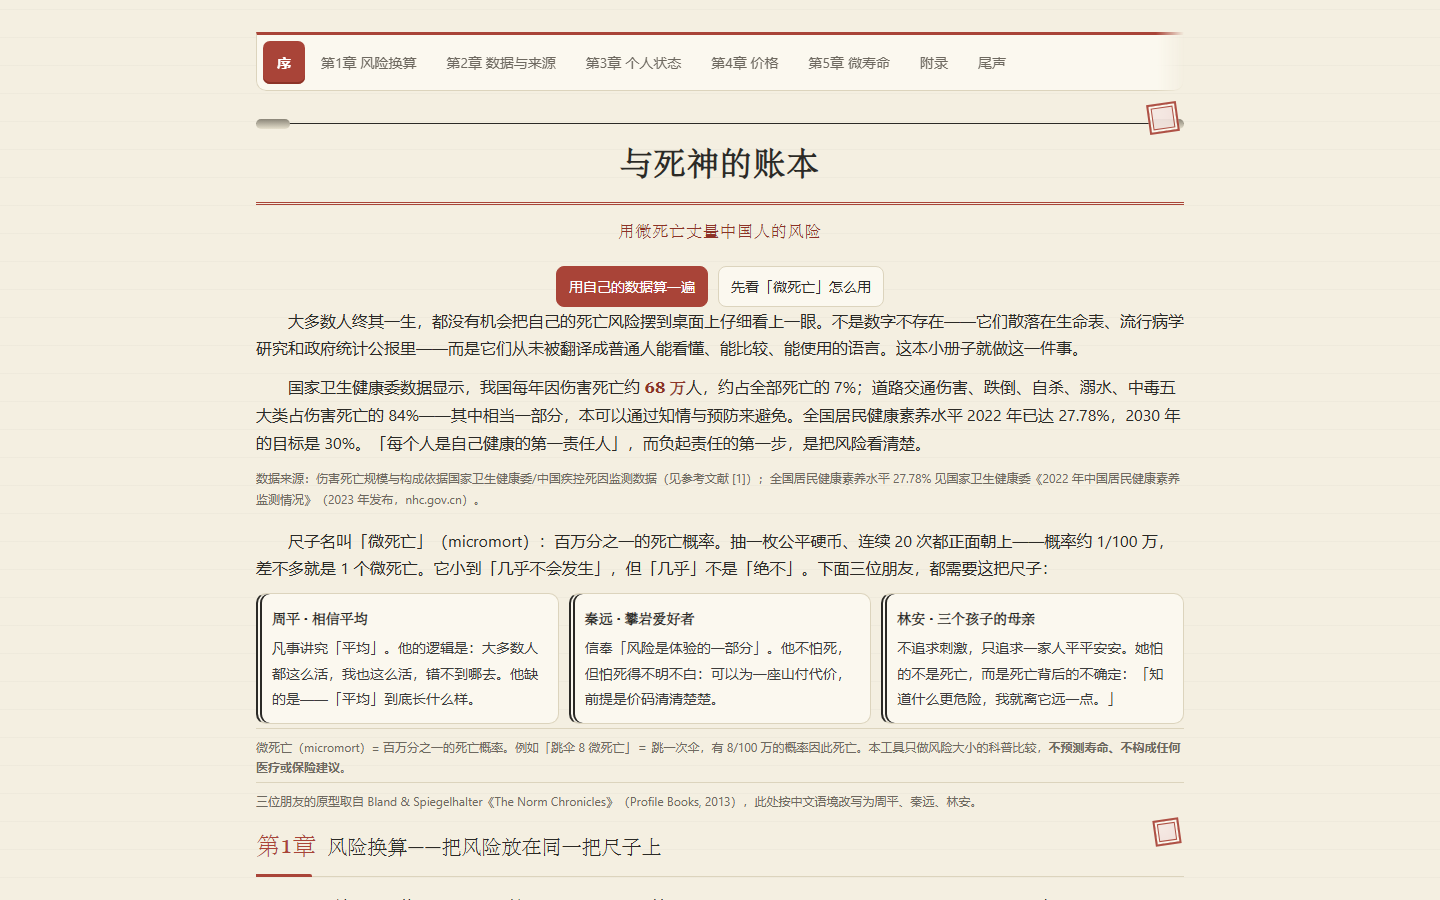
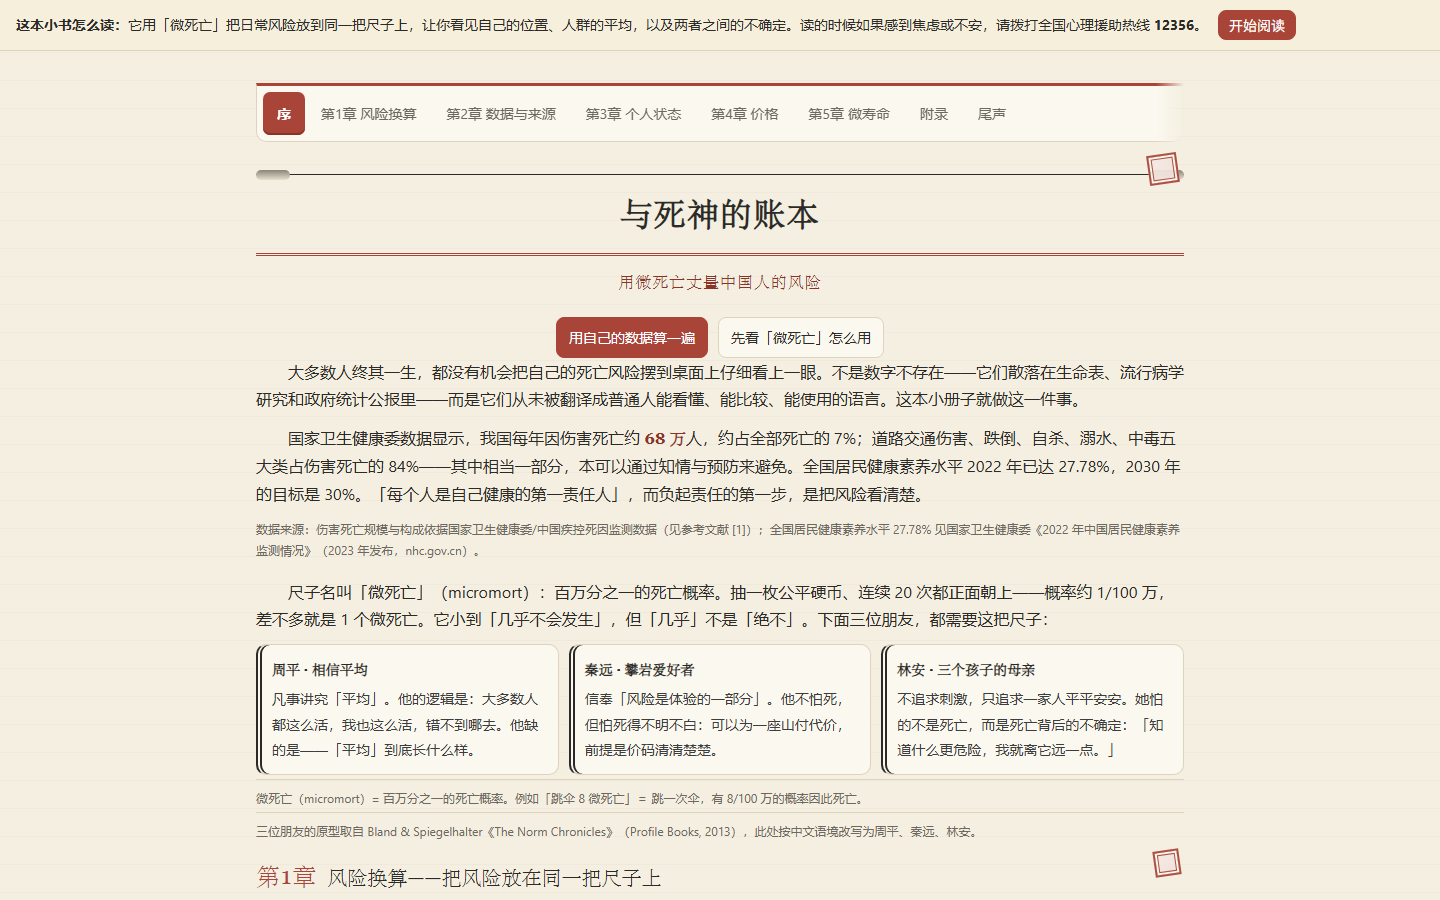
publish: v1.0.1 产品介绍与版本记录

Changed region(s): [[0.0, 0.0, 0.9062, 0.9956], [0.7812, 0.9022, 0.8438, 0.9644], [0.1875, 0.1867, 0.2188, 0.2178]]

diff --git a/index.html b/index.html
@@ -332,11 +332,11 @@
 <body>
 <a href="#docTitle" class="skip-link">跳到正文</a>
 <div id="disclaimer">
-  <span><b>请先了解：</b>本工具只做「风险大小」的科普比较，<b>不预测寿命、不构成任何医疗或保险建议</b>，结果不能用于个体医疗决策或保险定价。文中的寿命收支等所有时间维度数字，都是「当前状态」相对「同龄同性别平均」的差值，不是对个人寿命的预言。如因此感到焦虑或不安，请拨打全国心理援助热线 <b>12356</b>。继续使用即表示你已理解。</span>
-  <button type="button" id="disclaimerOk" class="btn btn-sm btn-primary">我知道了</button>
+  <span><b>这本小书怎么读：</b>它用「微死亡」把日常风险放到同一把尺子上，让你看见自己的位置、人群的平均，以及两者之间的不确定。读的时候如果感到焦虑或不安，请拨打全国心理援助热线 <b>12356</b>。</span>
+  <button type="button" id="disclaimerOk" class="btn btn-sm btn-primary">开始阅读</button>
 </div>
 <main class="wrap" id="main">
-  <p class="sr-only">页面顶部有免责声明，含心理援助热线 12356；如需查看请按 Shift+Tab 回到页面开头的「跳到正文」链接，再按 Shift+Tab 进入免责声明。</p>
+  <p class="sr-only">页面顶部有阅读提示，含心理援助热线 12356；如需查看请按 Shift+Tab 回到页面开头的「跳到正文」链接，再按 Shift+Tab 进入阅读提示。</p>
   <nav class="chapters" id="chapterNav" aria-label="章节目录">
     <a href="#prologue" data-ch="prologue" class="active">序</a>
     <a href="#ch1" data-ch="ch1">第1章 风险换算</a>
@@ -364,7 +364,7 @@
       <div class="p"><b>秦远 · 攀岩爱好者</b><span>信奉「风险是体验的一部分」。他不怕死，但怕死得不明不白：可以为一座山付代价，前提是价码清清楚楚。</span></div>
       <div class="p"><b>林安 · 三个孩子的母亲</b><span>不追求刺激，只追求一家人平平安安。她怕的不是死亡，而是死亡背后的不确定：「知道什么更危险，我就离它远一点。」</span></div>
     </div>
-    <p class="meta">微死亡（micromort）= 百万分之一的死亡概率。例如「跳伞 8 微死亡」＝ 跳一次伞，有 8/100 万的概率因此死亡。本工具只做风险大小的科普比较，<b>不预测寿命、不构成任何医疗或保险建议</b>。</p>
+    <p class="meta">微死亡（micromort）= 百万分之一的死亡概率。例如「跳伞 8 微死亡」＝ 跳一次伞，有 8/100 万的概率因此死亡。</p>
     <p class="meta">三位朋友的原型取自 Bland &amp; Spiegelhalter《The Norm Chronicles》（Profile Books, 2013），此处按中文语境改写为周平、秦远、林安。</p>
   </header>
 
@@ -524,7 +524,7 @@
   <section class="chapter" id="ch3">
     <div class="ch-head"><span class="no">第3章</span><h2>个人状态——你的账本</h2></div>
     <div class="ch-lead">
-      <p>这一章是整个工具的核心：填入年龄、性别与九项健康指标，它会画出「和你数据相同的一群人」的平均生存曲线。这是一条「平均人」的命运曲线（确定性生命表 + 1000 次系数抽样的带），不是你的命运——个体可能落在蓝带内任何位置，也可能落在带外。它不预测寿命。</p>
+      <p>这一章是整个工具的核心：填入年龄、性别与九项健康指标，它会画出「和你数据相同的一群人」的平均生存曲线——确定性生命表打底，1000 次系数抽样给出蓝带。你会看到自己相对同龄人的位置，也会看到这条曲线留有多少余地。</p>
       <p>蓝带是<b>系数不确定带</b>：来自对各状态系数「估计不确定」的 1000 次蒙特卡洛抽样（不含基线口径本身的不确定——换一套人群生命表，整条曲线会整体平移，见第 2 章的来源说明），数字卡取其中位数，与曲线同源。把指针放到曲线上，可查看每个时间点的详细数值（手机上用手指按住拖动，松手后数值保留约 2 秒）。本章末尾的「个人风险报告」可打印（浏览器打印对话框里另存为 PDF）或复制文本摘要——报告只含你输入的数值与计算结果，不含姓名等个人识别信息。</p>
     </div>
     <div class="card">
@@ -629,12 +629,12 @@
         <select id="cmpInst" class="select-compact"><option value="">不叠加</option></select>
         <span id="cmpOut" class="text-mut"></span>
       </div>
-      <div class="hint mt-6 mb-0">这条曲线描述的是「和你数据相同的一群人」的平均命运，不是你的命运——个体可能落在蓝带内任何位置，也可能落在带外。它不预测你的寿命。</div>
+      <div class="hint mt-6 mb-0">曲线给出同群体平均，蓝带标出系数估计的不确定；你的位置可能落在带内，也可能落在带外。看清这段距离，比记住一个点更有用。</div>
       <div id="warnings"></div>
       <div id="riskProfile"></div>
       <div class="card" id="reportCard">
         <h2>个人风险报告</h2>
-        <p class="src mt-0">把当前结果导出为一份自洽的报告：打印版按六部分组织——报告头、输入档案（13 项）、核心结果、风险构成、事件叠加清单、方法与局限（浏览器打印对话框可另存为 PDF）；没填的项目会显示「未填」、没加事件时事件清单只有一行提示，所以整份长度随输入而变。文本摘要是一段可一键复制的纯文本，不是同一份报告的逐行镜像。报告只含你输入的数值与计算结果，<b>不含姓名等个人识别信息</b>，不构成医疗或保险建议。</p>
+        <p class="src mt-0">把当前结果导出为一份自洽的报告：打印版按六部分组织——报告头、输入档案（13 项）、核心结果、风险构成、事件叠加清单、方法与局限（浏览器打印对话框可另存为 PDF）；没填的项目会显示「未填」、没加事件时事件清单只有一行提示，所以整份长度随输入而变。文本摘要是一段可一键复制的纯文本，不是同一份报告的逐行镜像。报告只含你输入的数值与计算结果，<b>不含姓名等个人识别信息</b>。</p>
         <div class="btn-row">
           <button id="reportPrint" type="button" class="btn btn-primary">打印报告（可另存 PDF）</button>
           <button id="reportCopy" type="button" class="btn">复制文本摘要</button>
@@ -648,7 +648,7 @@
   <section class="chapter" id="ch4">
     <div class="ch-head"><span class="no">第4章</span><h2>价格——风险的另一把尺子</h2></div>
     <div class="ch-lead">
-      <p>把 1 微死亡折算成人民币，是一种很老的经济学方法。先说清楚它不是什么：它不是说「一条命值多少钱」，而是说「社会愿意为减少 1 个微死亡支付多少钱」——一个换算率，只用于比较不同风险的大小。</p>
+      <p>把 1 微死亡折算成人民币，是一种很老的经济学方法：它算的是社会愿意为减少 1 个微死亡支付多少钱。这个换算率让不同风险可以放到同一张价格表上比较。</p>
       <p>中国的统计生命价值研究已由 1 篇系统综述纳入 28 项研究（那艺诺等，2025），其中 24 项有明确调查年份、可做跨期折算，内嵌于本工具。这 24 项的价格从 ¥0.12 到 ¥9.75 不等——差别不在「命有贵贱」，而在方法：<b>市场行为（工资补偿）</b>捕捉真实支付行为、数值偏高；<b>个人意愿（问卷）</b>受假设偏差影响、跨度大。<b>本工具不把它们平均成一个数</b>（不同方法测的不是同一个量，平均会把方法差异伪装成随机误差）。折算风险构成时，每一行按该因素所属领域的代表研究取价（健康类 Hammitt 2016、交通类 Zheng 2017、职业类 GUO 1998、污染类 Cao 2019），所以不同行的价格本来就不一样：职业类 GUO 1998 折至 2025 年约 ¥3.28/微死亡，健康类 Hammitt 2016 约 ¥4.35，交通类 Zheng 2017 约 ¥4.90。</p>
     </div>
     <div class="card">
@@ -728,8 +728,10 @@
       <h3>编校信息</h3>
       <p class="src mt-0">本版由作者完成多轮事实核查与校对，并参考公开数据来源。</p>
       <details>
-        <summary>编校信息（版本 1.0.1 · 作者自校）</summary>
-        <p class="src">版本 1.0.1（正式版）。本版经过作者多轮事实核查与校对，参考公开数据来源，并采纳多轮独立评审意见。修订建议请附证据指出，按「原文—改法—依据」三栏记录。本工具不预测寿命：寿命收支等所有时间维度数字都是「当前状态」相对「同龄同性别平均」的差值，不是对个人寿命的预言。</p>
+        <summary>编校与版本记录（1.0.1）</summary>
+        <p class="src"><b>1.0.1（2026-11-13）</b>：生命表换为 WHO 中国 2019–2023 一般人口口径；加入逐行领域取价、比例风险背景曲线、月模式、档案对照与可打印报告；完成多轮外审与内部盲审修复。</p>
+        <p class="src"><b>1.0.0（2026-11-11）</b>：首个稳定单文件版本，确立七章叙事、微死亡与微寿命两把尺子，以及离线可用的本机账本。</p>
+        <p class="src">修订建议请附证据指出，按「原文—改法—依据」三栏记录；完整版本记录见项目仓库 <code>CHANGELOG.md</code>。</p>
       </details>
       <p class="src">© 2026 Dasein0721 · 本作品采用 CC BY-NC 4.0（署名—非商业性使用）许可：转发、改编并公开发表须保留作者署名，商业用途须事先取得许可，个人学习与研究自由。协议见 https://creativecommons.org/licenses/by-nc/4.0/。</p>
       <h3>求助引导</h3>
@@ -749,7 +751,7 @@
         <li>生命表的单岁值由 5 岁组换算：组内按「风险恒定」摊到每一岁，所以 5–9 岁、10–14 岁等组内各年死亡率相同，是平滑后的近似而非逐年实测（0–4 岁分婴儿期与幼儿期两段；85 岁以上为 Gompertz 拟合外推）。</li>
       </ol>
     </details>
-    <p class="mt-6 mb-0 fs-14">本工具仅供理解风险量级，不构成任何医疗或预测结论。</p>
+    <p class="mt-6 mb-0 fs-14">把风险放回量级里看，是这本小书想留下的东西；体检、诊断与保单，请交给医生和专业人士。</p>
     <p class="src mt-6 mb-0">数据来源与局限：生命表（WHO 全球卫生观察站中国 2019–2023 五年平均，一般人口口径；不采用保险业经验生命表，因承保筛选会让 40–80 岁死亡率偏低约四成）；85 岁以上为 Gompertz 拟合外推（WHO 公开表 85 岁以后只有 5 岁组，取不到单岁值）；9 个状态系数来源在「填写后」的动态提示中逐条给出；综合风险校准参数（k1 / CAP / τ）取值见第2章；微死亡表信度分级与溯源见第1章与第2章；VSL 24 篇折算口径见第4章与第2章。</p>
     <div class="divider-16">
       <b>隐私与本机数据（这条请务必读）</b>
@@ -3514,7 +3516,7 @@ function toggleEventLou(row){
   $("disclaimerOk").addEventListener("click", ()=>{
     bar.style.display="none";
     try{ localStorage.setItem("rb_disclaimer_ok","1"); }catch(e){}
-    // 免责声明是页面第一个可聚焦区域；关闭后焦点不能掉回 body，否则键盘用户要从头 Tab 一遍
+    // 顶部阅读提示是页面第一个可聚焦区域；关闭后焦点不能掉回 body，否则键盘用户要从头 Tab 一遍
     const t = $("docTitle");
     if(t) t.focus({preventScroll:true});
   });
@@ -3557,7 +3559,7 @@ function toggleEventLou(row){
     try{
       for(let i=0;i<localStorage.length;i++){
         const k = localStorage.key(i);
-        // 免责声明确认是一次性本机状态：不随备份迁移，换设备/清空后应重新确认（第七份外审）。
+        // 顶部阅读提示的确认是一次性本机状态：不随备份迁移，换设备/清空后应重新确认（第七份外审）。
         if(!k || k.indexOf("rb_") !== 0 || k === "rb_disclaimer_ok") continue;
         data[k] = localStorage.getItem(k);
       }
@@ -3619,7 +3621,7 @@ function toggleEventLou(row){
         }catch(e){ inpOK = false; }
         if(!inpOK){ hint("备份里的个人信息格式不对，已停止导入（本机原记录未动）。"); imp.value = ""; return; }
       }
-      // 同导出：免责声明确认不随备份迁移，导入后仍由本机状态决定是否显示。
+      // 同导出：顶部阅读提示的确认不随备份迁移，导入后仍由本机状态决定是否显示。
       const keys = Object.keys(obj.data).filter(k => k.indexOf("rb_") === 0 && k !== "rb_disclaimer_ok" && typeof obj.data[k] === "string");
       if(!keys.length){ hint("备份里没有可导入的记录。"); imp.value = ""; return; }
       if(!window.confirm("导入会覆盖这台设备上现有的记录（备份含 " + keys.length + " 项），继续？")){ imp.value = ""; return; }

diff --git a/README.md b/README.md
@@ -6,7 +6,7 @@
 
 <sub>截图为 2026-11-13 构建（v1.0.1），1440×900 首屏；由本机无头 Edge 生成，非手工截图。</sub>
 
-> ⚠ **免责声明**：本工具只做「风险大小」的科普比较，不预测寿命，不构成任何医疗或保险建议，结果不能用于个体医疗决策或保险定价。
+> 读法：先看「微死亡」怎么用，再填自己的数据；每个数字都能在页内找到来源与口径。
 
 ---
 
@@ -17,7 +17,7 @@
 - **微死亡（micromort）**：百万分之一的死亡概率。跳一次伞约 8 微死亡；以 40 岁男性为例，每天吸 20 支烟约相当于每年多出 1,100 微死亡。
 - **微寿命（microlife）**：半小时的预期寿命。每天吸烟 20 支约损失 5 小时/天，肥胖约 1.5 小时/天。
 
-输入你的年龄、性别与生活习惯，页面就能估算你的个人死亡风险，并给出「和你数据相同的一群人」的平均曲线（确定性生命表 + 1,000 次系数抽样的带）作参照。
+输入你的年龄、性别与生活习惯，页面会把你的风险放回同龄人群里，画出「和你数据相同的一群人」的平均曲线（确定性生命表 + 1,000 次系数抽样的带），让你看见自己的位置和这段距离。
 
 ## 功能亮点
 
@@ -47,21 +47,21 @@ node _test_render.js   # 30/30
 ## 数据与科学
 
 - 基础死亡风险来自 **WHO GHO 中国一般人口生命表 2019–2023 五年平均**（5 岁组 lx → 单岁 qx；85 岁以上按 Gompertz 拟合外推）。
-  - 不使用保险业经验生命表（CL4）：被保险人有承保筛选，40 岁男性死亡率仅为一般人口的一半，会让「普通人」的存活率系统性偏高。
-  - 中国没有 2025 年的一般人口生命表：普查年才发完整表，其余年份只发人均预期寿命；WHO 2023 是标准估计的最新一年。
+  - 采用一般人口口径：保险业经验生命表经过承保筛选，40 岁男性死亡率约为一般人口的一半，会让「普通人」的存活率系统性偏高。
+  - 最新可用的是 WHO 2023 标准估计：完整生命表只在普查年发布，其余年份公布人均预期寿命。
 - 9 个状态系数锚定中国成人调查人群平均；连乘高估以 k1 / CAP / τ 校准。
 - 蓝带是**系数不确定带**（1,000 次蒙特卡洛只抽系数），不含基线口径本身的不确定。
-- 生命价值（VSL）由 1 篇系统综述纳入 28 项研究、24 项内嵌；**不合成中位数**——不同方法测的不是同一个量。风险构成的每一行按该因素所属领域取代表研究（健康 Hammitt 2016 ¥4.35、交通 Zheng 2017 ¥4.90、职业 GUO 1998 ¥3.28、污染 Cao 2019 ¥5.41），所以不同行的价格本来就不同；「小趣闻」按随机抽到的那一篇自己的折算价报数。
+- 生命价值（VSL）由 1 篇系统综述纳入 28 项研究、24 项内嵌；两种方法测的是不同问题，因此逐篇呈现，风险构成的每一行按该因素所属领域取代表研究（健康 Hammitt 2016 ¥4.35、交通 Zheng 2017 ¥4.90、职业 GUO 1998 ¥3.28、污染 Cao 2019 ¥5.41），所以不同行的价格本来就不同；「小趣闻」按随机抽到的那一篇自己的折算价报数。
 - 折算因子由年度指数表现算（城镇居民可支配收入 / CPI），市场行为口径按收入比、问卷口径按 CPI 累计，基准年 2025。
 
-完整数据表、建表推导、文献清单与校准过程保留在开发仓库，不随公开包分发；公开包只保留可独立运行的单文件成品与自检脚本。
+公开包保留可独立运行的单文件成品与自检脚本；完整数据表、建表推导、文献清单与校准过程在开发仓库维护。
 
 ## 质量证据
 
 | 关口 | 结果 |
 |---|---|
 | 自动化测试 | verify.js 25/25 + funfact 6/6 + 初始化冒烟 5/5 + 渲染 30/30 全绿；`lint.js` 静态体检通过（100 个 id / 30 个控件，`npm run check` 一键复跑） |
-| 文本校对 | 多轮事实核查与校对；无专业编辑参与 |
+| 文本校对 | 多轮事实核查与校对，并经过多轮独立评审 |
 | 独立评审 | 多轮外部独立评审逐步收敛，综合评分最高 9.1/10（评审对象为当时版本） |
 | 科学红线 | WHO 生命表 106 个单岁值与建表文档逐值核对，零漂移；微死亡 58 条事件数据与汇编逐条核对 |
 
@@ -71,11 +71,23 @@ node _test_render.js   # 30/30
 
 | 位 | 什么时候动 | 例子 |
 |---|---|---|
-| `z` 补丁 | 口径修正、缺陷修复、文案与无障碍，**功能边界不变** | 1.0.0 → 1.0.1（换 WHO 基线、一次性事件语义、蓝带改名、逐行取价、多批外审修复） |
+| `z` 补丁 | 口径修正、缺陷修复、文案与无障碍，**功能边界不变** | 1.0.0 → 1.0.1（换 WHO 基线、一次性事件语义、蓝带改名、逐行取价、多轮外审与内部盲审修复） |
 | `y` 次版本 | 新增功能模块或结构调整（如双档案对比、新章节） | 1.1.0 |
 | `x` 主版本 | 几乎不是同一件东西了（重写、定位改变） | 2.0.0 |
 
-判断标准是「用户能做的事有没有变多」，不是「改动行数多不多」。当前版本：**1.0.1**。
+判断标准是「用户能做的事有没有变多」，不是「改动行数多不多」。
+
+### 1.0.1 改了什么
+
+1.0.1 是在 1.0.0 稳定版上的口径与体验补丁：
+
+- **数据**：生命表换为 WHO 中国 2019–2023 一般人口口径；VSL 逐行按领域取代表研究，折算基准统一到 2025。
+- **计算**：背景风险改用比例风险公式；一次性事件只计当年；月模式、档案对照、数字卡与曲线同源。
+- **可靠**：导入校验与失败回滚；清空不覆盖已存档案；负值健康红利事件保留；事件文本转义。
+- **无障碍**：事件行改为真实按钮，补焦点管理、图表读屏描述、表单标签与 `aria-live`。
+- **结构**：数据集中到 `APP_DATA`；`Chart` / `Report` 拆为 IIFE；静态内联样式 179→7。
+
+完整记录见 [CHANGELOG.md](CHANGELOG.md)。
 
 ## 公开目录
 
@@ -87,6 +99,7 @@ _test_init.js          初始化路径冒烟（5 条）
 _test_render.js        已填状态渲染回归（30 条）
 _test_funfact.js       趣闻回归断言（6 条）
 package.json           npm test / npm run check 入口
+CHANGELOG.md           版本记录（1.0.0 → 1.0.1）
 docs/screenshot.png    成品首屏截图
 LICENSE                CC BY-NC 4.0
 ```

diff --git a/CHANGELOG.md b/CHANGELOG.md
@@ -1,0 +1,33 @@
+# 版本记录
+
+## 1.0.1 — 2026-11-13
+
+在 1.0.0 的七章骨架上，把数据口径、计算与阅读体验收紧到可发布状态。
+
+### 数据与口径
+
+- 生命表基线改为 WHO GHO 中国一般人口 2019–2023 五年平均；85 岁以上用 Gompertz 外推。
+- VSL 改为逐行按领域取代表研究；折算因子由年度收入 / CPI 指数计算，基准 2025。
+- 事件表 58 条统一单位与年化口径，一次性事件只计当年。
+
+### 计算与报告
+
+- 背景风险改用比例风险公式；月模式、档案对照、数字卡与曲线同源。
+- 系数不确定带来自 1,000 次抽样，数字卡取中位数。
+- 打印报告与文本摘要对齐；导入校验与失败回滚；清空不覆盖已存档案；负值健康红利事件保留。
+
+### 体验与无障碍
+
+- 七章叙事、账本视觉、可折叠方法与 34 条参考文献。
+- 键盘焦点、事件行语义、图表读屏描述、移动端 44px 触控。
+- 单文件、零依赖、离线可用；个人数据只存本机。
+
+### 结构与质量
+
+- 数据集中到 `APP_DATA`；`Chart` / `Report` 拆为 IIFE；静态内联样式 179→7。
+- 5 套自检：verify 25、funfact 6、init 5、render 30；`lint.js` 守 id、控件可达名与锚点。
+- 经多轮外部评审与内部盲审，逐条核实后修复；问题登记与验收判据见开发仓库的 `问题清单.md`。
+
+## 1.0.0 — 2026-11-11
+
+- 首个稳定单文件版本：七章叙事、微死亡 / 微寿命两把尺子、个人状态与报告、离线可用。
